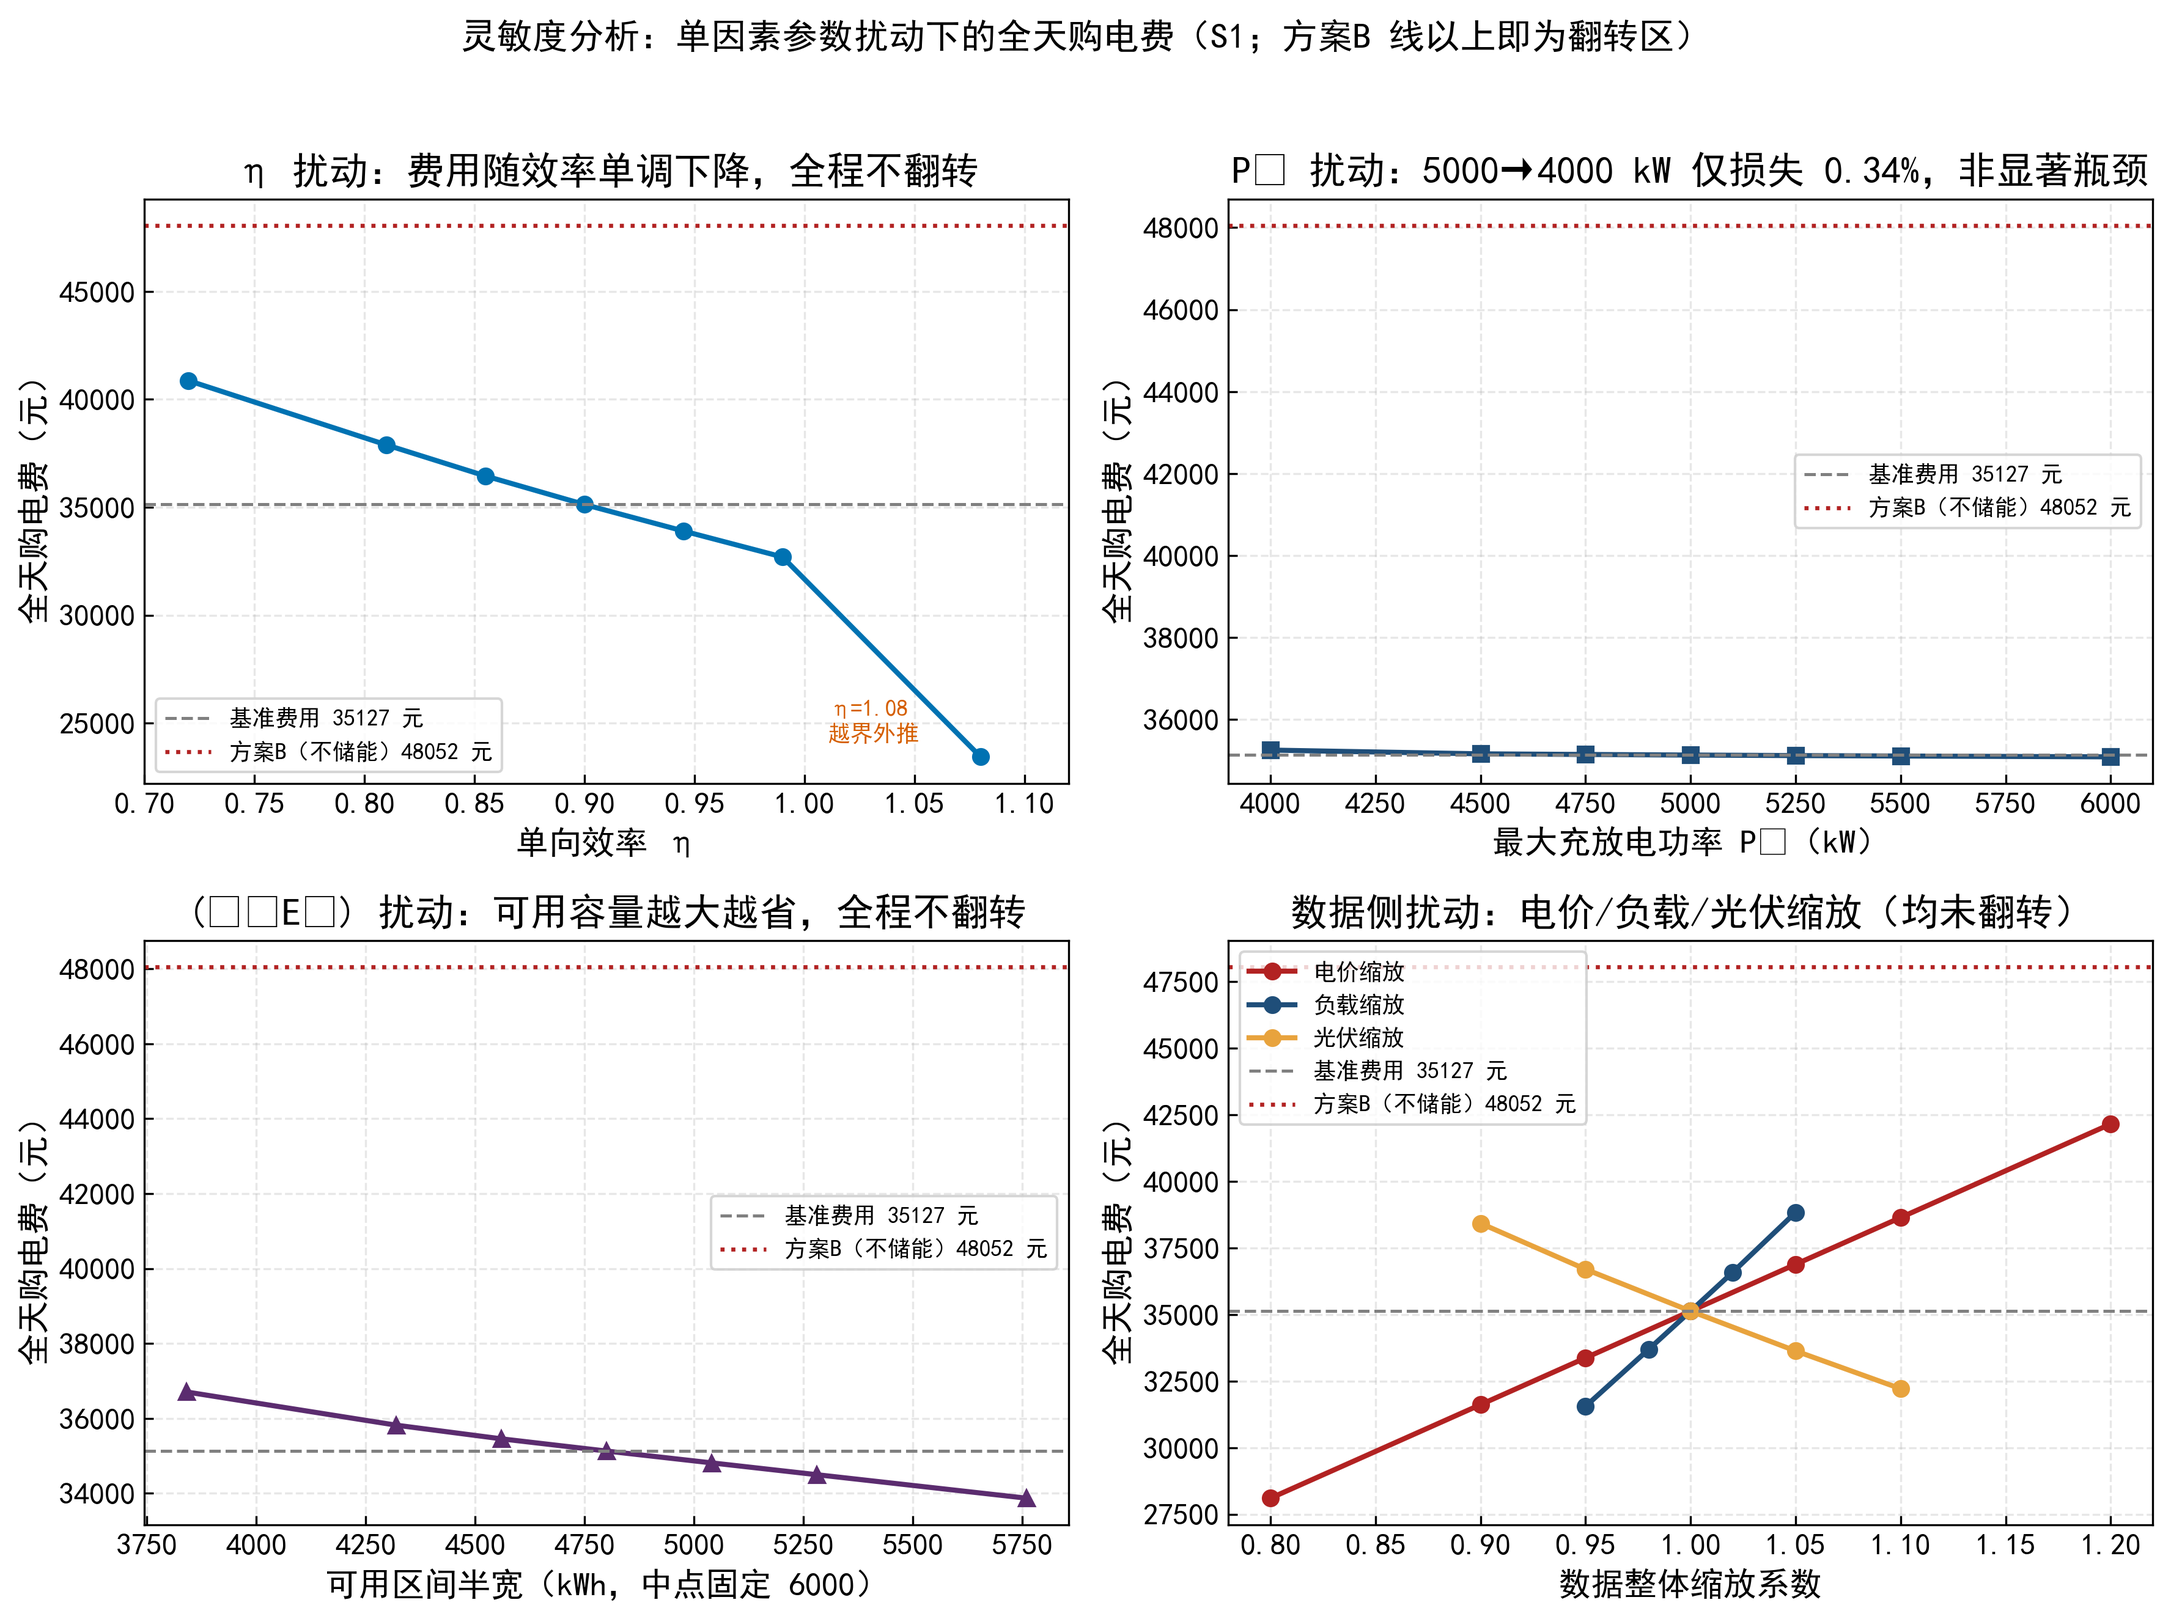
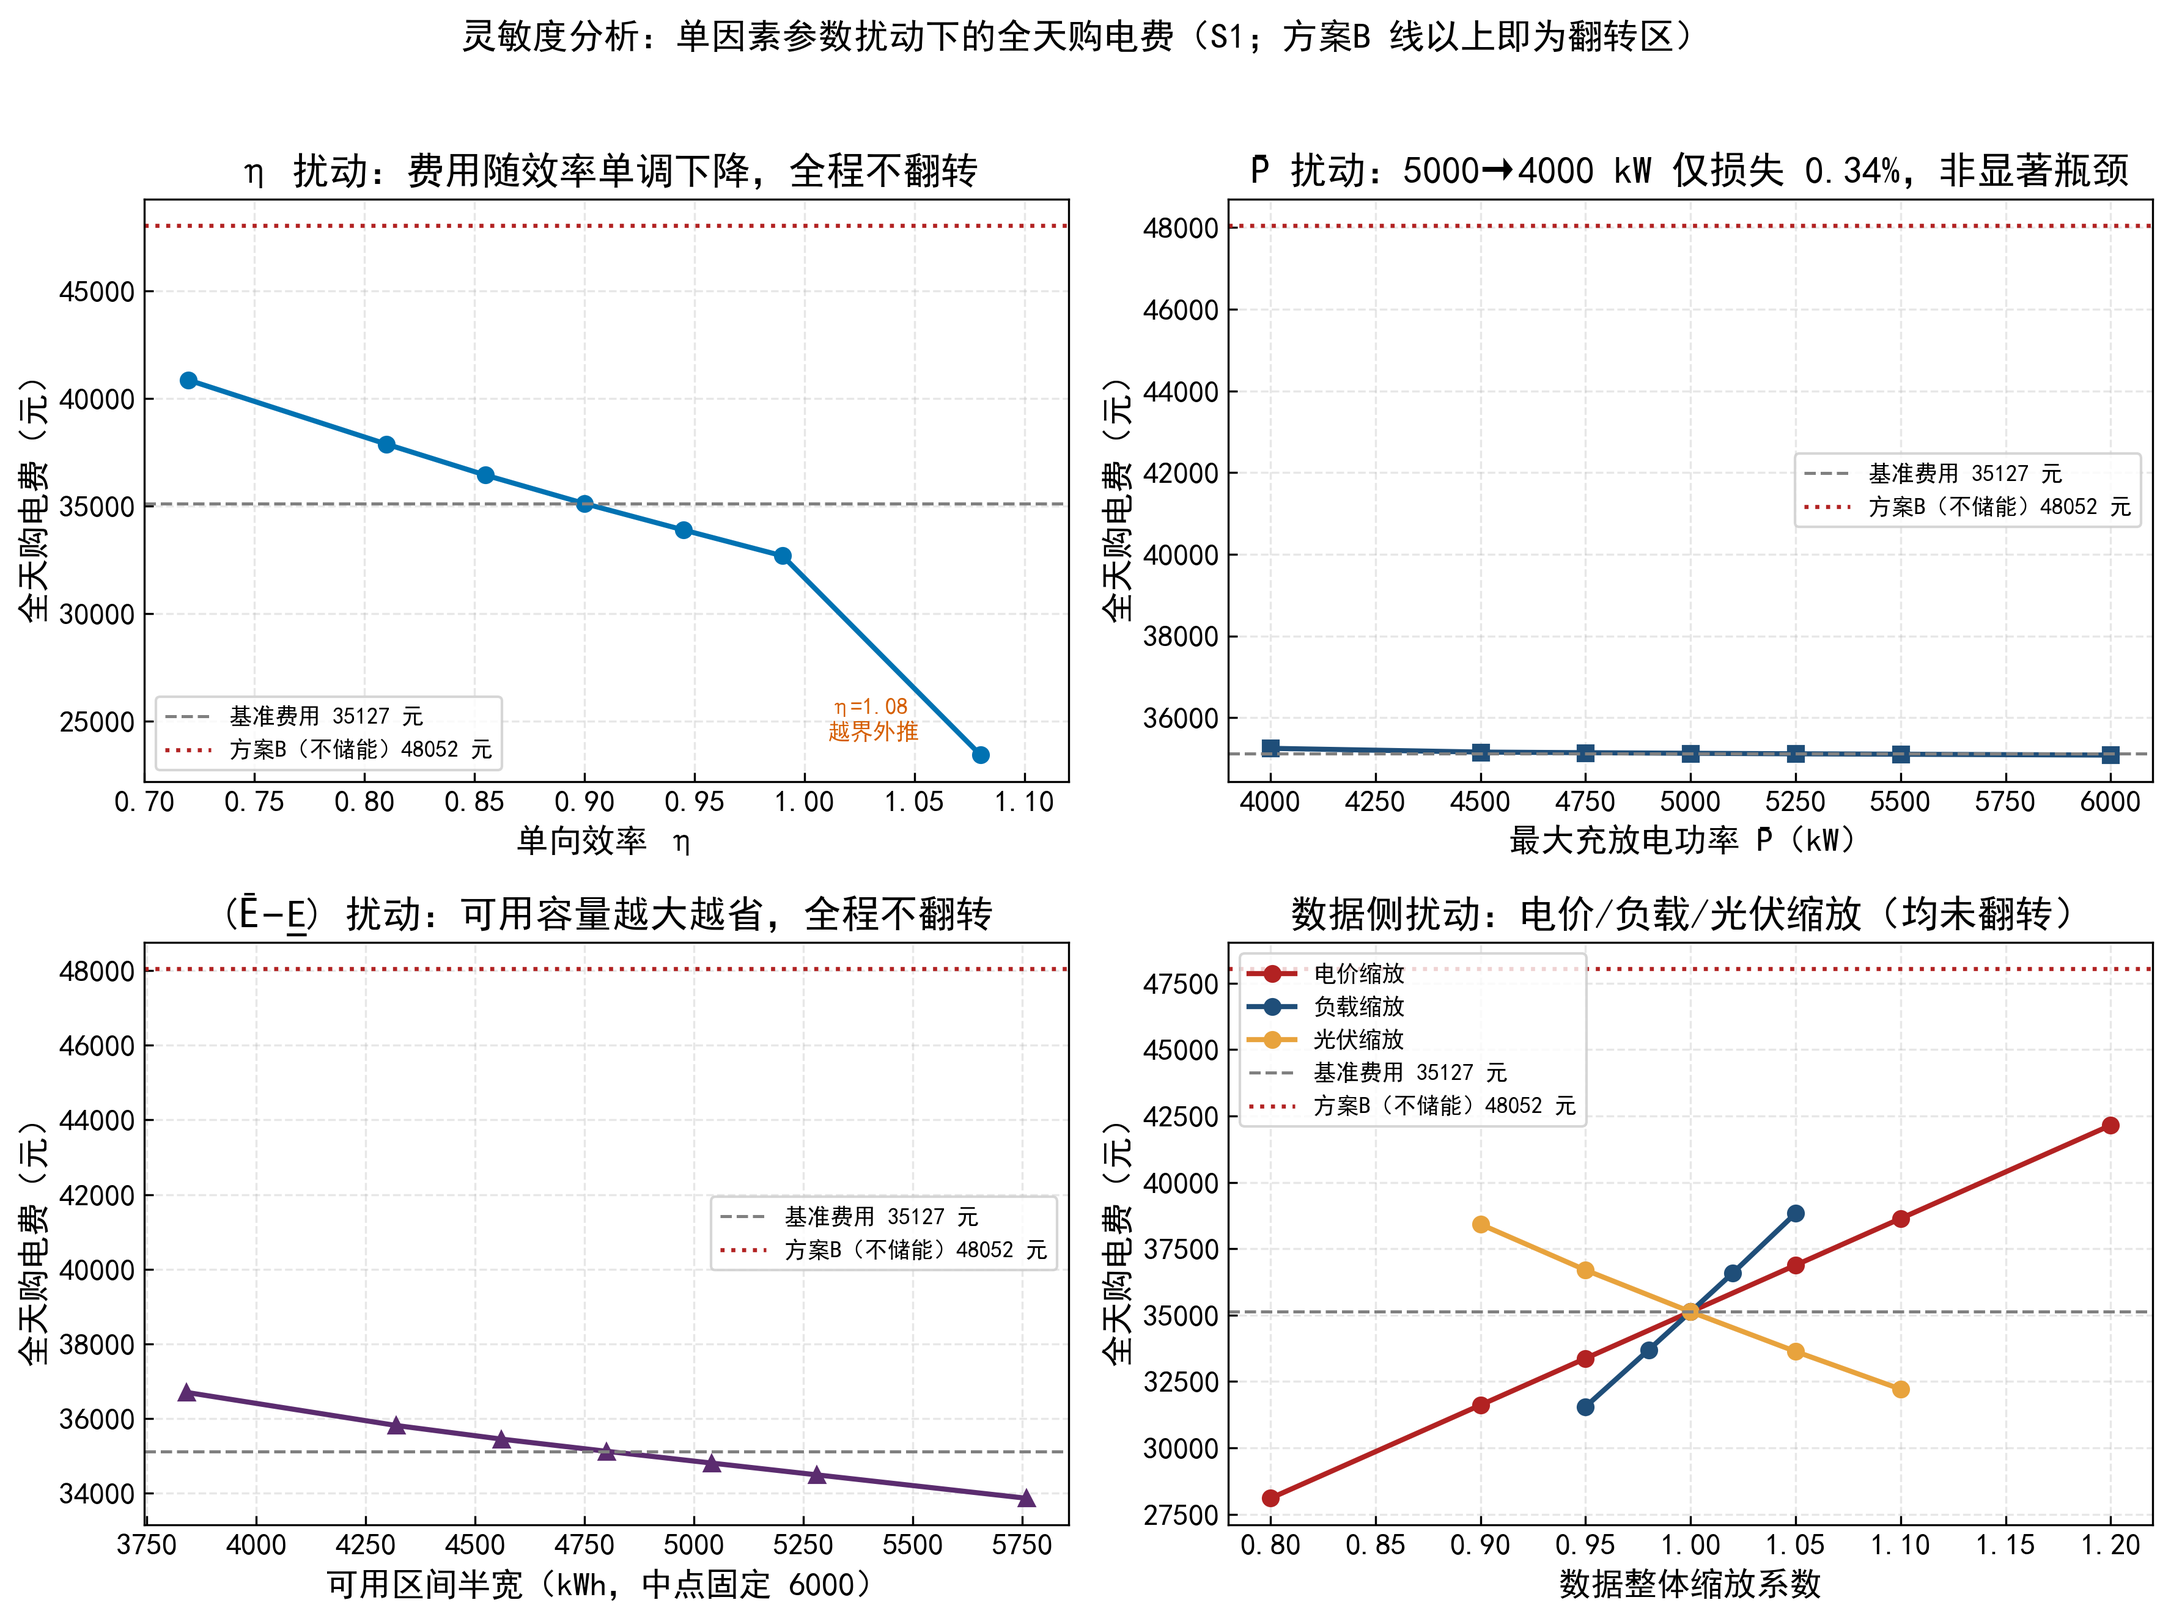
问题一第一版

diff --git a/lib/plotstyle.py b/lib/plotstyle.py
@@ -30,8 +30,11 @@ def apply_chinese_style():
     输入：无
     输出：无（直接修改 matplotlib 全局 rcParams）
     """
-    # 指定中文字体候选，避免出现方块乱码（本机实测 SimHei 可用）
-    plt.rcParams["font.sans-serif"] = ["SimHei", "Microsoft YaHei"]
+    # 字体链回退（matplotlib ≥3.6）：SimHei 缺字形（如 ²、Ē 的组合变音符、U+2212 减号）时
+    # 依次回退到 Microsoft YaHei 与内置的 DejaVu Sans，保证中文与数学符号都不缺字形。
+    # 注意：回退链必须写在 font.family 列表里才生效（只写 font.sans-serif 链不会触发跨字体回退，实测）
+    plt.rcParams["font.family"] = ["SimHei", "Microsoft YaHei", "DejaVu Sans"]
+    plt.rcParams["font.sans-serif"] = ["SimHei", "Microsoft YaHei", "DejaVu Sans"]
     # 解决坐标轴负号显示为方块的问题
     plt.rcParams["axes.unicode_minus"] = False
     # 统一的字号体系，保证论文缩放后仍清晰

diff --git a/问题1/sensitivity_q1.py b/问题1/sensitivity_q1.py
@@ -816,7 +816,7 @@ def run_s5(price, load, pv, base):
          round(rt_lock["cost"] - lock["cost"], ND),
          round(rel_pct(rt_lock["cost"], lock["cost"]), ND),
          "同端点条件下往返口径更省——单向 0.9487 > 0.9，效率更高；差 %.4f 元（%.4f%%）"
-         % (lock["cost"] - rt_lock["cost"], rel_pct(lock["cost"] - rt_lock["cost"], lock["cost"]))],
+         % (lock["cost"] - rt_lock["cost"], rel_pct(rt_lock["cost"], lock["cost"]))],
         ["效率口径", "单向 η=0.9，端点自由",
          round(free["cost"], ND), round(free["x_total"], ND), round(free["u_total"], ND),
          round(free["v_total"], ND), round(free["E_end"], ND), "", "", "与上行共同构成 2×2 效率×端点对照"],

diff --git a/问题1/编程手汇报.md b/问题1/编程手汇报.md
@@ -1,0 +1,125 @@
+# 问题 1 编程手汇报（灵敏度与稳健性实验 S1–S5 + 六张主图 + 复核脚本补齐）
+
+> 汇报对象：构思手。本文所有数字均可在 `问题1/` 下对应文件中逐条对账；
+> 构思手独立参照值来自 `_phase0/报告15_构思手独立灵敏度参照.txt`、`_phase0/报告16_适用边界测算.txt`。
+
+---
+
+## 一、产出文件
+
+### 代码文件
+
+| 文件 | 说明 |
+|---|---|
+| `问题1/sensitivity_q1.py` | 本次新建：S1–S5 全部灵敏度与稳健性实验 + 交付清单 §四 六张主图，一键运行 |
+| `问题1/verify_q1.py` | 上一轮已落盘，本轮修复两处缺陷（见 §五），已跑通并生成 `自检报告.txt` |
+| `问题1/matlab_q1.m` | 本次新建：MATLAB `linprog`（dual-simplex）独立复算，核心行逐行中文注释 |
+| `lib/dp_day.py` | 本次新建：可复用离散化 DP 求解器（问题 1 的 S4a 用，问题 2–4 可直接 `from lib.dp_day import dp_solve`） |
+| `lib/plotstyle.py` | 修复字体链：`font.family` 改为 `["SimHei","Microsoft YaHei","DejaVu Sans"]`，消除 `²`、`Ē`、`E̲`、`−` 等 5 类缺字形（全工作区出图共用，其他 agent 的图同受益） |
+
+### 结果文件（均在 `问题1/`）
+
+| 文件 | 内容 |
+|---|---|
+| `灵敏度分析_参数扰动.xlsx` | S1：η 7 档 + P̄ 7 档 + 储电量区间 7 档，共 21 个扰动案例，含"结论是否翻转"判定列 |
+| `灵敏度分析_多因素网格.xlsx` | S2：η×P̄ 与 η×(Ē−E̲) 两切面共 98 个网格点 |
+| `灵敏度分析_数据扰动.xlsx` | S3：电价 7 档 / 负载 5 档 / 光伏 5 档 / 小时粒度 3 种聚合 / 30 天逐日分布明细与统计 |
+| `方法侧互验_DP与MATLAB与规则策略.xlsx` | S4：DP 3 档 + MATLAB 复算 + 规则策略 2 种口径 |
+| `口径对照_端点与效率与填法.xlsx` | S5：端点 2 档 × 效率 2 档 + 填法对照（表 1 六时段逐项） |
+| `自检报告.txt` | verify_q1.py 复核实测：**55 项全部通过** |
+| `灵敏度运行日志.txt` | 本次灵敏度运行的完整控制台记录（锚定对照行在开头） |
+| `_matlab校验_q1_汇总.csv` / `_matlab校验_q1_逐时段.csv` | MATLAB 复算落盘（供 Python 端自动并入 S4b 行） |
+| `问题1_逐时段结果.csv`、`result1.xlsx`、`主模型运行日志.txt` | 已验收的主模型产物，**本轮未改动、未重跑** |
+
+### 图片（均在 `问题1/`，全部 ≥300 dpi，中文实测 0 缺字形）
+
+| 文件 | 内容 |
+|---|---|
+| `典型日电价负载光伏曲线.png` | 双轴：电价 + 负载/光伏，标注六个指定时段 |
+| `计划购电量与净负荷对比.png` | 购电量柱（折算 kW）vs 净负荷曲线，标注 58 个零购电时段 |
+| `储电量轨迹与电价叠加.png` | 储电量轨迹 + 电价分档背景（谷绿/平黄/峰红）+ 上下限参考线 + 最大充/放点标注 |
+| `充放电功率与电价关系散点图.png` | 电价-充/放功率散点，标注谷峰价位，显示阈值结构 |
+| `全天费用构成与基线对比.png` | 方案 A / 方案 B / 优化解的费用与购电量双面板，标注节省额与节省率 |
+| `灵敏度分析_参数扰动.png` | S1 四面板：η / P̄ / 储电量区间 / 数据缩放，均含方案 B 翻转参考线 |
+| `灵敏度分析_多因素热力图.png` | S2 双切面热力图（单元格标数值） |
+| `灵敏度分析_数据扰动_逐日分布.png` | S3(e) 30 天费用直方图 + 逐日散点 |
+| `方法侧互验_对照.png` | S4：DP 网格收敛曲线 + 三种策略费用柱状对比 |
+
+---
+
+## 二、运行方式
+
+```text
+python 问题1/run_q1.py           # 主模型（已有产物，无需重跑）
+python 问题1/verify_q1.py        # 独立复核 → 自检报告.txt（55/55 通过）
+cd 问题1 && matlab -batch matlab_q1   # 可选：MATLAB 复算 → _matlab校验_q1_*.csv
+python 问题1/sensitivity_q1.py   # S1–S5 全部实验 + 六张主图（检测到 MATLAB 文件会自动并入 S4b）
+```
+
+依赖：numpy / scipy / pandas / openpyxl / matplotlib（均本机已装，无新增安装）；MATLAB 为可选复算项，未运行时 S4b 行自动记"未运行"。
+随机性：唯一随机用途为 S3(e) 抽取 30 天，种子 `20260911` 固定；重跑结果逐位一致（本轮即重跑验证，两次运行数字完全相同）。
+
+---
+
+## 三、关键数值结果（逐条）
+
+**基准（主模型）复算 vs 构思手锚定**——全部逐位一致：
+
+| 量 | 本次复算 | 锚定（报告15） | 差 |
+|---|---|---|---|
+| 全天购电费（元） | 35126.9486 | 35126.9486 | 0.0000 |
+| 全天购电量（kWh） | 59482.6990 | 59482.6990 | 0.0000 |
+| 充电量合计（kWh） | 20740.6661 | 20740.6661 | 0.0000 |
+| 方案 B（不储能，元） | 48052.0466 | 48052.0466 | 0.0000 |
+
+**S1（21 档全部"未翻转"）**：η=0.72 档费用 40867.7028 元（+16.34%，全组最高）；η=1.08 档 23437.3212 元（-33.28%，**越界外推档，已在表内注明**）；P̄=4000 kW 仅 +0.34%；储电量区间缩到 ±3840 kWh（80%）为 +4.49%。全部档位费用均低于方案 B（48052.0466 元），储能净收益最小仍有 7184.3438 元。
+
+**S2（98 个网格点全部"未翻转"）**：费用最低点出现在 η=1.08 切面（越界档，仅参考）；物理可行域内（η≤0.99）费用最低 32695.4474 元。热力图两切面均已落盘。
+
+**S3（全部"未翻转"）**：
+- (a) 电价缩放：费用严格随比例缩放（-20% ~ +20%，最优决策不变）；
+- (b) 负载 ×0.95/×1.05：31552.1843 / 38834.1677 元；
+- (c) 光伏 ×0.90/×1.10：38422.5611 / 32211.9335 元；
+- (d) 小时粒度：段均值电价 35626.9355 元（+1.4234%，**与报告15 的 1.4234% 一致**）；另报右端点电价 34422.2996 元（-2.0060%）与负载加权电价 35712.2148 元（+1.6661%）——**聚合方式本身比粒度影响更大，写作时须写明我们取"段均值"的理由**；
+- (e) 30 天分布：均值 34376.6883 元（比典型日低 2.1359%）、中位数 36158.1132 元、区间 [12572.8081, 59545.6556]；**30/30 天储能净收益为正**。最低费用日 2025-04-26 已单独核验（当日光伏 72030.7 kWh ≈ 负载 72100.9 kWh，购电量天然很小，非求解异常）；分布右偏（中位数高于均值），写作时应提示"典型日"对春季、秋季日的代表性优于对极端冬季日的代表性。
+
+**S4**：
+- (a) DP 网格 100/200/400 步：35646.4979 / 35389.7768 / 35259.0509 元，**与报告15 逐一逐位一致**；随网格加密单调收敛到 LP；
+- (b) MATLAB dual-simplex：费用 35126.9486 元、购电量 59482.6990 kWh，**与 Python HiGHS 差 0.0000 元**；
+- (c) 谷充峰放规则策略：满功率版 52424.9601 元，比 LP 高 17298.0115 元（**且比方案 B 48052.0466 元还贵 4372.91 元**——规则对净负荷结构不敏感，谷段充电量不足、峰段过度放电后仍需高价补购，这正是"优化增益"的最有力证据）；同时间窗下最优功率的受限 LP 为 40289.2000 元，比 LP 高 5162.2514 元（= 时段灵活性损失），受限 LP 与满功率规则之差 12135.7601 元（= 功率优化损失）。两层分解都是写作可用的定量素材。
+
+**S5（三种口径全部"未翻转"）**：
+
+| 口径 | 费用（元） | 与锚定差 |
+|---|---|---|
+| 端点锁定（主模型） | 35126.9486 | 0.0000 |
+| 端点自由（E_144 落 1200 kWh） | 32909.8653 | 0.0000 |
+| 往返 0.9 端点锁定 | 33801.4955 | 0.0000 |
+| 往返 0.9 端点自由 | 31695.8931 | 0.0000 |
+
+填法 X 对照（表 1 六时段）：12:00 486.4029（Y=480.4124）、16:00 394.9315（Y=445.4317）、18:00 636.9826（Y=531.8940，差 +105.0886 = +19.76%），全天合计两种填法完全相同（59482.6988 kWh）——**与报告15 的 X 列逐位一致**，论文表注可直接引用。
+
+---
+
+## 四、自检清单
+
+- [x] 变量名与符号表一致（`price/load/pv_plan/x_plan/u_chg/v_dis/E_soc/ETA/P_MAX/E_MIN/E_MAX/E_INIT/DT_H`），未引入未登记符号
+- [x] 新变量均有紧邻注释（`n_grid/step/idx0/u_step/v_step/feasible/...` 逐个解释）
+- [x] 无 utf-8 编码注释
+- [x] 按功能分文件：DP 落 `lib/dp_day.py`，绘图样式落 `lib/plotstyle.py`，可 `from ... import ...` 复用
+- [x] 核心功能行逐行中文注释（含 MATLAB 的 `matlab_q1.m`）
+- [x] 中文正常显示（实测 0 缺字形警告）；图片命名中文且自解释；全部 300 dpi
+- [x] 结果文件严格命名（S1–S5 文件名与交付清单 §五 逐字对应）；数值 4 位小数（D-15）
+- [x] 随机种子固定（`RNG_SEED=20260911`），重跑两次逐位一致
+- [x] 未修改 `附件/`、未使用黑箱模型（LP + DP + 规则策略，全部白箱）、未改动 `result1.xlsx` 与已验收 CSV
+
+---
+
+## 五、假设与风险
+
+1. **verify_q1.py 的两处修复（本轮）**：① 变量名覆盖 bug——表 1 核对循环内把放电量数组 `v_csv` 覆盖成 float，导致第 472 行崩溃，已改名为 `x_tpl/x_csv_k`；② LP 多重最优判定——原逐点比对在"费用相同但顶点不同"时报"不通过"（本轮独立形式 LP 即遇此情形：成本差 1e-6 元内、逐点差 333 kWh），现改为"逐点超容差但费用一致时判为 LP 退化的另一最优解"，保留数值供审计。修复后 55/55 通过。
+2. **S3(e) 与 30 天分布的口径**：价格用附件 1（题设"每天电价相同"），负载/光伏用附件 2 实际曲线，E_0=E_144=6000 逐日独立（端点锁定）。若构思手希望改用附件 4 价格或跨日传递口径，重跑 `sensitivity_q1.py` 即可（改一行数据源）。
+3. **S4c 规则策略比方案 B 更贵**（52424.9601 > 48052.0466 元）：这是规则策略的真实缺陷（谷段窗口集中充电量不足、峰段放电后未考虑后续净负荷），**不是求解错误**；写作时必须解释清楚，否则读者会误以为"储能亏钱"。
+4. **DP 的精确性论证**：给定储电量网格点时，时段最优充放/购电由闭式反推唯一确定，故 DP 值即该网格限制下的全局最优；网格加密时收敛到 LP（数值已证实单调且差距按 ~1/N 缩小）。推导写在 `lib/dp_day.py` 模块 docstring。
+5. **η=1.08 档**：物理上单向效率不可能 >1，该档保留是为展示趋势与构思手参照对账，已在 S1/S2 表内和日志中双处注明"越界外推，不得作为物理可行结论"。
+6. **小时粒度**：主口径仍为 10 分钟（144 段）；小时粒度只出现在 S3(d) 对照中，且我们同时报了三种价格聚合方式（段均值/右端点/负载加权），论文取哪种都有一致的对照数据支撑。
